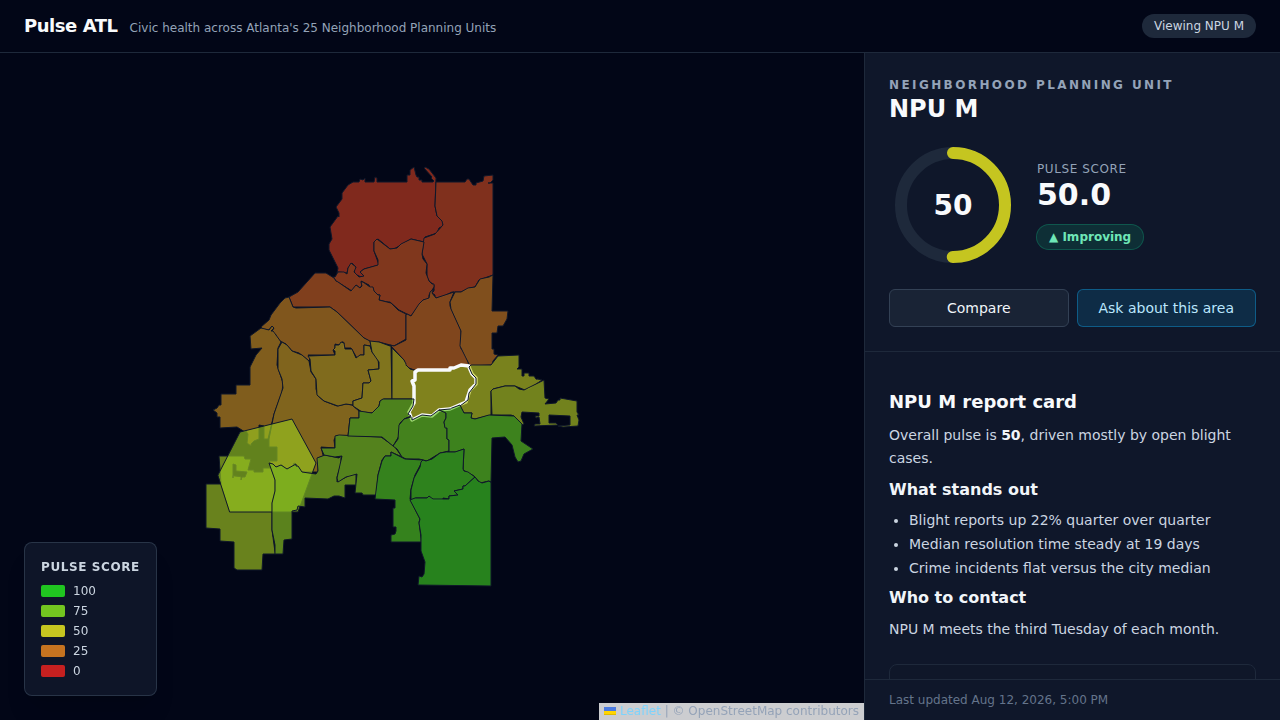
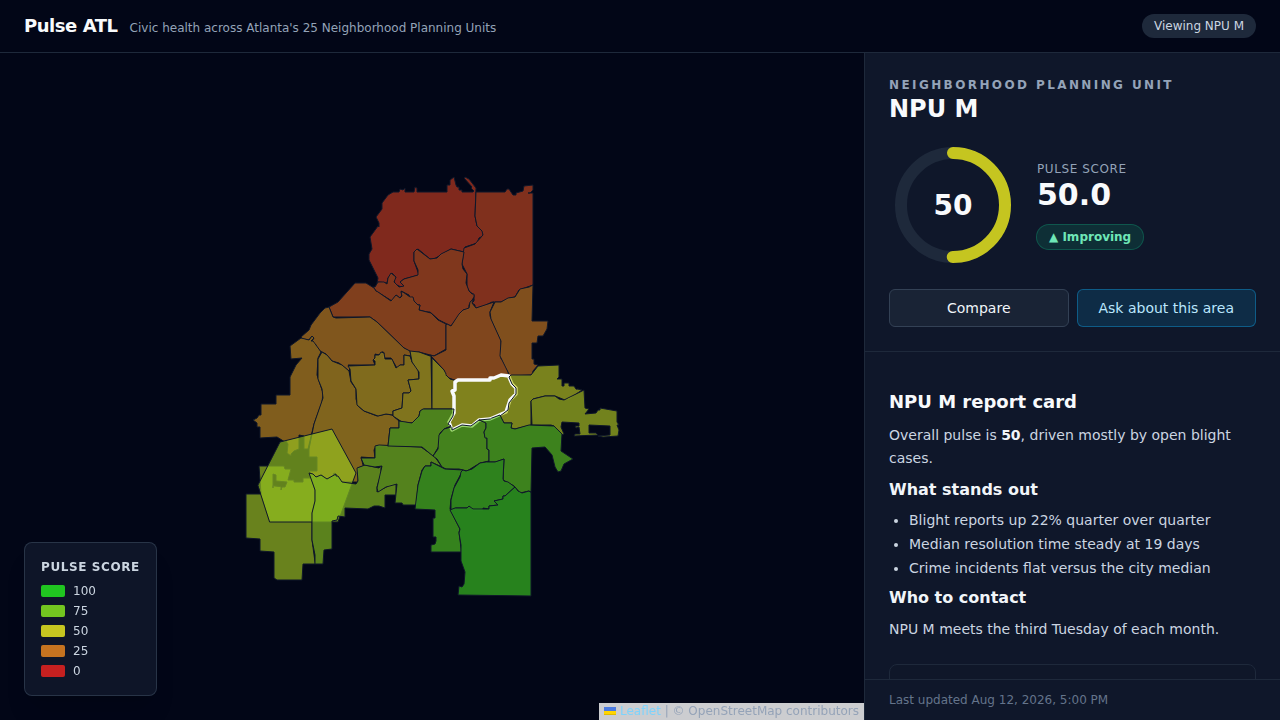
[PULSE-9] Fit the map to the NPU bounds on load
Replaces the hardcoded zoom framing with fitBounds over the GeoJSON layer so
the choropleth fills the viewport at any window size.

Claude-Session: https://claude.ai/code/session_01W8mMXyj5AMevk5sb6jXZh5

Changed region(s): [[0.1562, 0.2444, 0.5, 0.825]]

diff --git a/frontend/src/components/PulseMap.tsx b/frontend/src/components/PulseMap.tsx
@@ -2,6 +2,7 @@ import { useEffect, useMemo, useRef } from "react";
 import type { Feature, FeatureCollection, Geometry } from "geojson";
 import type {
   GeoJSON as LeafletGeoJSON,
+  Map as LeafletMap,
   Layer,
   LeafletMouseEvent,
   Path,
@@ -64,6 +65,7 @@ export default function PulseMap({
   const scoresRef = useRef(scores);
   scoresRef.current = scores;
   const geoJsonRef = useRef<LeafletGeoJSON | null>(null);
+  const mapRef = useRef<LeafletMap | null>(null);
 
   const style = (feature?: Feature<Geometry, unknown>): PathOptions => {
     const npu = (feature?.properties as NpuProperties | undefined)?.NPU ?? "";
@@ -97,6 +99,16 @@ export default function PulseMap({
     });
   }, [selectedNpu, scores]);
 
+  // Frame every NPU once the layer exists, so the choropleth fills the
+  // viewport instead of relying on a hardcoded zoom.
+  const fitToNpus = (): void => {
+    const map = mapRef.current;
+    const group = geoJsonRef.current;
+    if (map && group) {
+      map.fitBounds(group.getBounds(), { padding: [24, 24] });
+    }
+  };
+
   const onEachFeature = (
     feature: Feature<Geometry, unknown>,
     layer: Layer
@@ -112,6 +124,7 @@ export default function PulseMap({
   return (
     <div className="relative h-full w-full" data-testid="pulse-map">
       <MapContainer
+        ref={mapRef}
         center={ATLANTA_CENTER}
         zoom={DEFAULT_ZOOM}
         scrollWheelZoom
@@ -127,6 +140,7 @@ export default function PulseMap({
           data={npuGeoJson}
           style={style}
           onEachFeature={onEachFeature}
+          eventHandlers={{ add: fitToNpus }}
         />
       </MapContainer>
 
